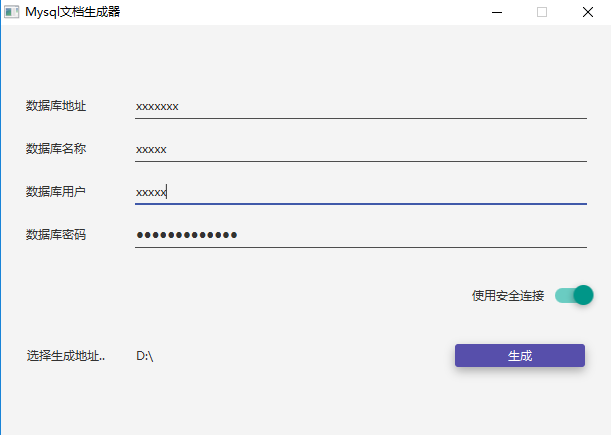
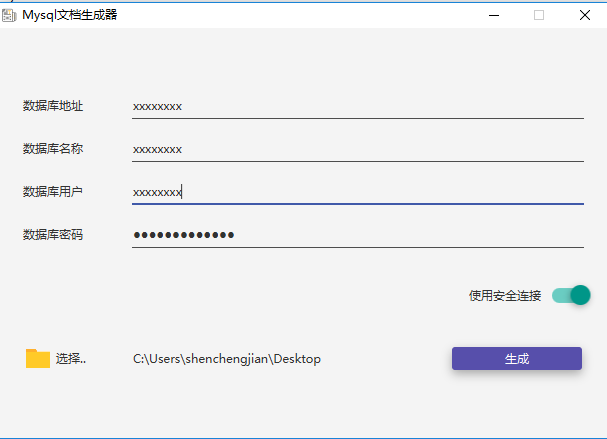
优化UI, 添加Logo

diff --git a/src/main/java/com/mars/mysqldocfx/Controller.java b/src/main/java/com/mars/mysqldocfx/Controller.java
@@ -9,6 +9,8 @@ import javafx.fxml.FXML;
 import javafx.scene.control.Label;
 import javafx.scene.control.TextField;
 import javafx.scene.control.ToggleButton;
+import javafx.scene.image.Image;
+import javafx.scene.image.ImageView;
 import javafx.scene.input.MouseEvent;
 import javafx.scene.layout.StackPane;
 import javafx.stage.DirectoryChooser;
@@ -39,6 +41,8 @@ public class Controller {
     private StackPane root;
     @FXML
     private Label exportFilePath;
+    @FXML
+    private Label exportFilePathLabel;
 
     public static final String CONTENT_PANE = "ContentPane";
 
@@ -159,6 +163,12 @@ public class Controller {
                 e.printStackTrace();
             }
         }
+        ClassLoader classLoader = getClass().getClassLoader();
+        ImageView image = new ImageView(new Image(classLoader.getResourceAsStream("images/wenjianjia_1.png")));
+        image.setPreserveRatio(true);
+        image.setFitHeight(28);
+        image.setFitHeight(28);
+        exportFilePathLabel.setGraphic(image);
     }
 
     private File getConfigFile() {

diff --git a/src/main/java/com/mars/mysqldocfx/Main.java b/src/main/java/com/mars/mysqldocfx/Main.java
@@ -5,6 +5,7 @@ import javafx.fxml.FXMLLoader;
 import javafx.fxml.JavaFXBuilderFactory;
 import javafx.scene.Parent;
 import javafx.scene.Scene;
+import javafx.scene.image.Image;
 import javafx.stage.Stage;
 
 import java.net.URL;
@@ -13,8 +14,9 @@ public class Main extends Application {
 
     @Override
     public void start(Stage primaryStage) throws Exception{
-
-        URL resource = getClass().getClassLoader().getResource("layout.fxml");
+        ClassLoader classLoader = getClass().getClassLoader();
+        primaryStage.getIcons().add(new Image(classLoader.getResourceAsStream("images/logo.png")));
+        URL resource = classLoader.getResource("layout.fxml");
         FXMLLoader fxmlLoader = new FXMLLoader();
         fxmlLoader.setLocation(resource);
         fxmlLoader.setBuilderFactory(new JavaFXBuilderFactory());
